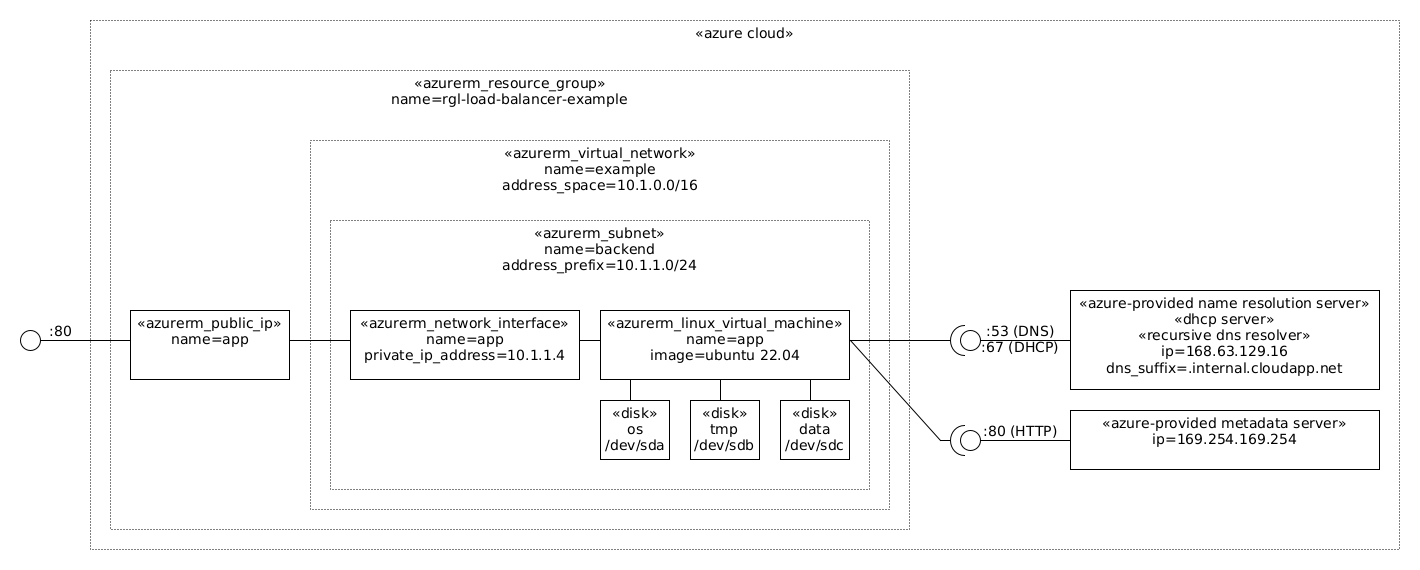
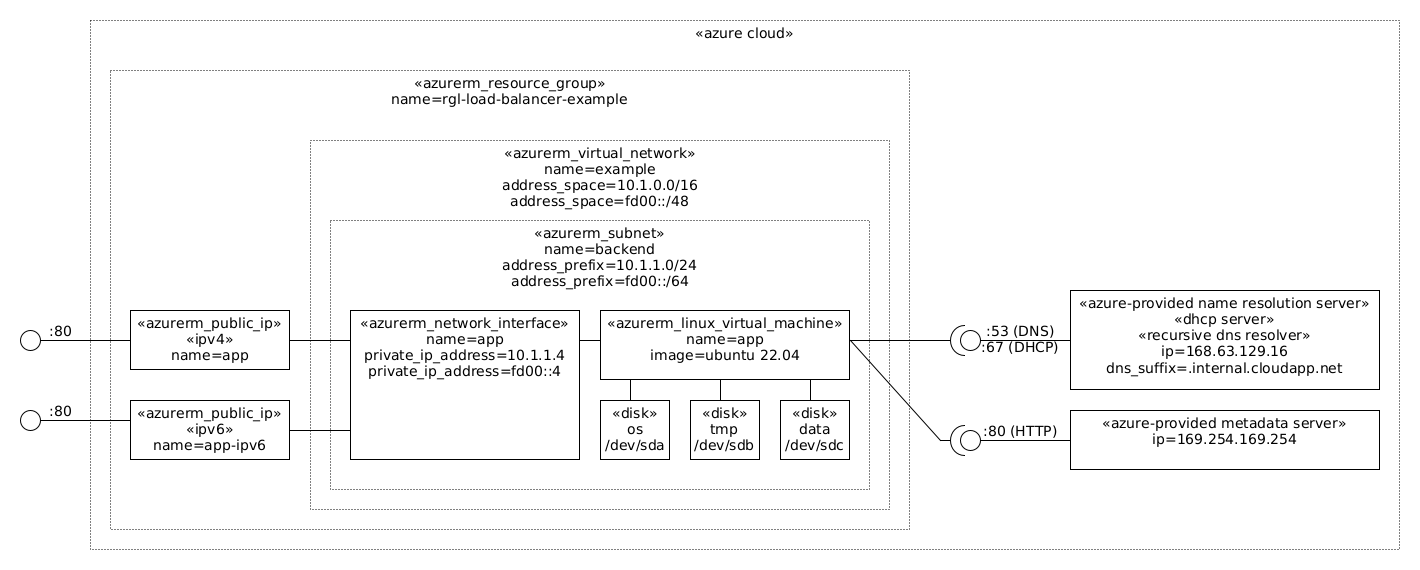
configure ipv6

diff --git a/README.md b/README.md
@@ -50,12 +50,34 @@ After VM initialization is done (check the boot diagnostics serial log for cloud
 
 ```bash
 while ! wget -qO- "http://$(terraform output --raw app_ip_address)/test"; do sleep 3; done
+while ! wget -qO- "http://[$(terraform output --raw app_ipv6_ip_address)]/test"; do sleep 3; done
 ```
 
-And open a shell inside the VM:
+Open a shell inside the VM, and poke it:
 
 ```bash
 ssh "$(terraform output --raw app_ip_address)"
+sudo cat /etc/netplan/50-cloud-init.yaml
+ip addr
+ip -4 route
+ip -6 route
+ping -6 -n -c 3 2606:4700:4700::1111    # cloudflare dns.
+ping -6 -n -c 3 2606:4700:4700::1001    # cloudflare dns.
+ping -6 -n -c 3 ff02::1                 # all nodes.   # NB does not work in azure.
+ping -6 -n -c 3 ff02::2                 # all routers. # NB does not work in azure.
+ping -4 -n -c 3 ip6.me
+ping -6 -n -c 3 ip6.me
+dig -4 aaaa ip6.me
+dig -6 aaaa ip6.me @2606:4700:4700::1111
+curl -4 https://ip6.me/api/ # get the vm public ipv4 address.
+curl -6 https://ip6.me/api/ # get the vm public ipv6 address.
+curl http://ip6only.me/api/ # get the vm public ipv6 address.
+curl http://10.1.1.4/test   # try the app private ipv4 endpoint.
+curl http://[fd00::4]/test  # try the app private ipv6 endpoint.
+ipv6_public_test_url="http://[$(curl -6 -s https://ip6.me/api/ | awk -F, '{print $2}')]/test"
+curl "$ipv6_public_test_url" # try the app public ipv6 endpoint.
+echo "go to https://dnschecker.org/server-headers-check.php and test the app ipv6 url:
+$ipv6_public_test_url"
 exit
 ```
 
